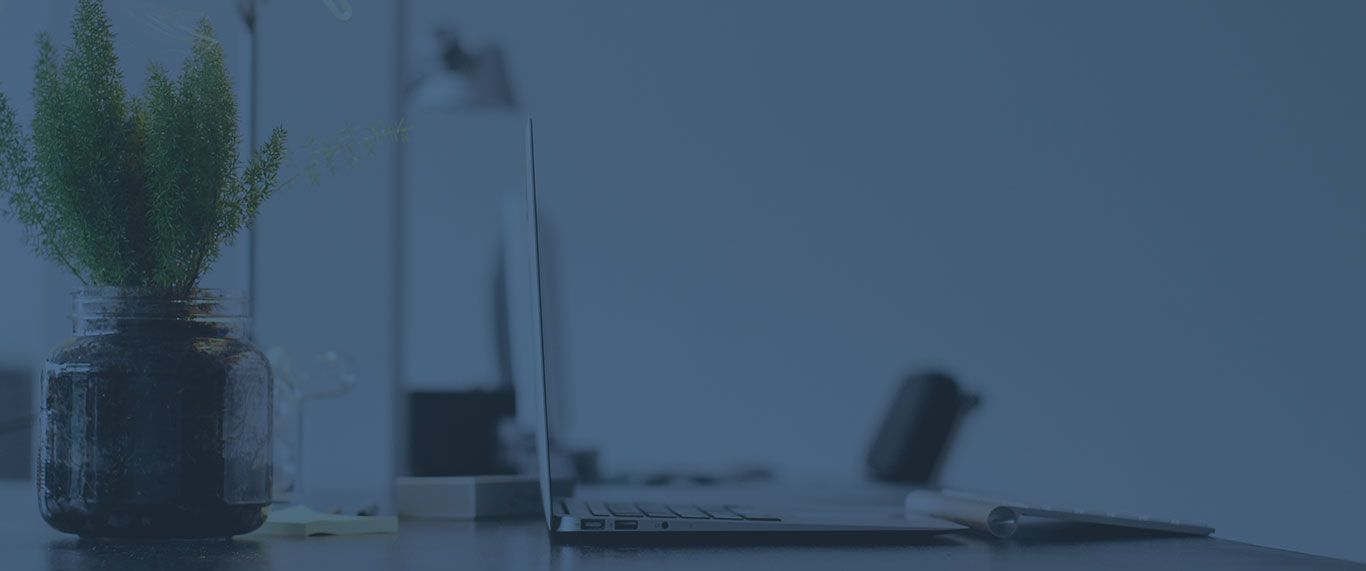
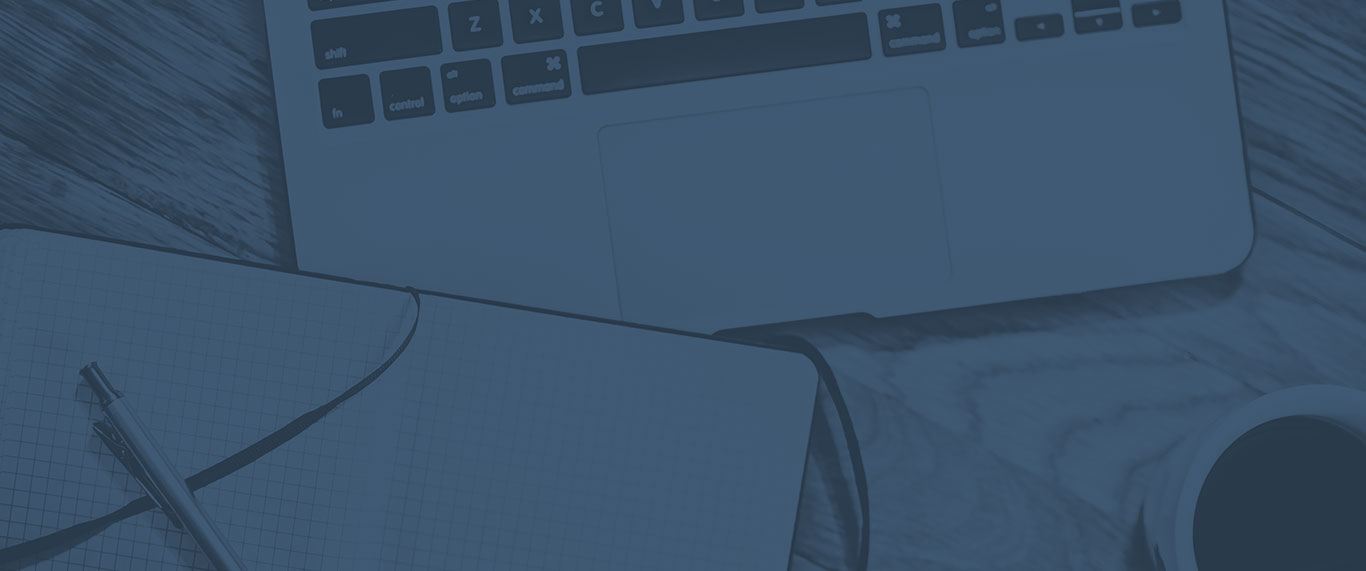
Updated index header and custom file input

diff --git a/public/js/app/templates.js b/public/js/app/templates.js
@@ -1,5 +1,5 @@
 angular.module("gifable.app.templates").run(["$templateCache", function($templateCache) {$templateCache.put("components/documentation/documentation.html","<gifable-header></gifable-header>\r\n<section class=\"outer-container\">\r\n    <h2>POST /api/v1/gifs</h2>\r\n    <p>Convert a GIF file into an HTML5 video.</p>\r\n    <h4>Sample Post Data</h4>\r\n    <pre>{{ postData }}</pre>\r\n    <h4>Sample Response</h4>\r\n    <pre>{{ postResponse }}</pre>\r\n\r\n    <h2>GET /api/v1/gifs/{shortcode}</h2>\r\n    <p>Retrieve a GIF\'s stored information based on URL shortcode.</p>\r\n    <h4>Sample Response</h4>\r\n    <pre>{{ getResponse }}</pre>\r\n</section>\r\n");
 $templateCache.put("components/index/index.html","<gifable-index-header></gifable-index-header>\r\n<section class=\"outer-container\">\r\n    <div class=\"input-wrapper\">\r\n        <div class=\"header-icon\">\r\n            <i class=\"fa fa-cloud-upload\"></i>\r\n        </div>\r\n        <div class=\"file-input\">\r\n            <custom-file-uploader uploader=\"uploader\"></custom-file-uploader>\r\n        </div>\r\n    </div>\r\n</section>\r\n");
-$templateCache.put("shared/gifable-file-input/gifable-file-input.html","<div class=\"directive gifable-file-input\">\r\n    <input type=\"file\" accept=\"image/gif\" nv-file-select uploader=\"uploader\">\r\n    <button>Upload GIF</button>\r\n</div>\r\n");
+$templateCache.put("shared/gifable-file-input/gifable-file-input.html","<div class=\"directive gifable-file-input\">\r\n    <input type=\"file\" accept=\"image/gif\" nv-file-select uploader=\"uploader\">\r\n    <button><i class=\"fa fa-cloud-upload\"></i>Upload GIF</button>\r\n</div>\r\n");
 $templateCache.put("shared/gifable-header/gifable-header.html","<header>\r\n    <div class=\"navigation\">\r\n        <div class=\"outer-container\">\r\n            <div class=\"logo\">\r\n                <a href=\"#/\"><img src=\"/img/index-logo.png\"></a>\r\n            </div>\r\n            <div class=\"links\">\r\n                <ul>\r\n                    <li><a href=\"#/about\">About</a></li>\r\n                    <li><a href=\"#/api\">API</a></li>\r\n                    <li><a href=\"#/donate\">Donate</a></li>\r\n                </ul>\r\n            </div>\r\n        </div>\r\n    </div>\r\n</header>\r\n");
-$templateCache.put("components/index/gifable-index-header/gifable-index-header.html","<div class=\"directive gifable-index-header\">\r\n    <div class=\"navigation\">\r\n        <div class=\"outer-container\">\r\n            <div class=\"logo\">\r\n                <a href=\"#/\"><img src=\"/img/index-logo.png\"></a>\r\n            </div>\r\n            <div class=\"links\">\r\n                <ul>\r\n                    <li><a href=\"#/about\">About</a></li>\r\n                    <li><a href=\"#/api\">API</a></li>\r\n                    <li><a href=\"#/donate\">Donate</a></li>\r\n                </ul>\r\n            </div>\r\n        </div>\r\n    </div>\r\n    <div class=\"call-to-action\">\r\n        <div class=\"outer-container\">\r\n            <h1>Upload Your GIF</h1>\r\n            <div class=\"input\">\r\n                <gifable-file-input></gifable-file-input>\r\n            </div>\r\n            <p>We squash your GIFs into super efficient HTML5 videos that can be viewed from any device - saving you time and bandwidth.</p>\r\n        </div>\r\n    </div>\r\n</div>\r\n");}]);
+$templateCache.put("components/index/gifable-index-header/gifable-index-header.html","<div class=\"directive gifable-index-header\">\r\n    <div class=\"navigation\">\r\n        <div class=\"outer-container\">\r\n            <div class=\"logo\">\r\n                <a href=\"#/\"><img src=\"/img/index-logo.png\"></a>\r\n            </div>\r\n            <div class=\"links\">\r\n                <ul>\r\n                    <li><a href=\"#/about\">About</a></li>\r\n                    <li><a href=\"#/api\">API</a></li>\r\n                    <li><a href=\"#/donate\">Donate</a></li>\r\n                </ul>\r\n            </div>\r\n        </div>\r\n    </div>\r\n    <div class=\"call-to-action\">\r\n        <div class=\"outer-container\">\r\n            <h1>Upgrade Your GIFs</h1>\r\n            <div class=\"input\">\r\n                <gifable-file-input></gifable-file-input>\r\n            </div>\r\n            <p>We squash your GIFs into super efficient HTML5 videos that can be viewed from any device - saving you time and bandwidth.</p>\r\n        </div>\r\n    </div>\r\n</div>\r\n");}]);

diff --git a/public/css/app.css b/public/css/app.css
@@ -105,7 +105,7 @@ html, body {
       clear: both; }
 
 .directive.gifable-index-header {
-  background: url(/img/index-header-background.jpg) center bottom;
+  background: #34495e url(/img/index-header-background.jpg) center;
   background-size: cover;
   color: #fff; }
   .directive.gifable-index-header .navigation {
@@ -143,11 +143,14 @@ html, body {
     text-align: center; }
     .directive.gifable-index-header .call-to-action h1 {
       margin: 0 0 32px;
+      font-size: 28px;
       text-transform: uppercase; }
     .directive.gifable-index-header .call-to-action .input {
-      margin-bottom: 128px; }
+      margin-bottom: 64px; }
     .directive.gifable-index-header .call-to-action p {
-      margin: 0; }
+      max-width: 512px;
+      margin: 0 auto;
+      line-height: 22.652px; }
 
 .directive.gifable-file-input {
   display: inline-block;
@@ -157,11 +160,12 @@ html, body {
     position: absolute;
     top: 0;
     bottom: 0;
-    color: transparent; }
+    color: transparent;
+    cursor: pointer; }
     .directive.gifable-file-input input[type=file]::-webkit-file-upload-button {
       visibility: hidden; }
   .directive.gifable-file-input button {
-    width: 280px;
+    width: 256px;
     font-size: 16px; }
     .directive.gifable-file-input button .fa {
       margin-right: 8px; }
@@ -193,7 +197,5 @@ html, body {
     background-color: #00a2e6;
     box-shadow: inset 0 1px 2px rgba(0, 0, 0, 0.2); }
 
-html, body {
-  background-color: #ecf0f1; }
-  html .outer-container, body .outer-container {
-    max-width: 1024px; }
+html .outer-container, body .outer-container {
+  max-width: 1024px; }

diff --git a/resources/assets/app/sass/components/index/_gifable-index-header.scss b/resources/assets/app/sass/components/index/_gifable-index-header.scss
@@ -1,5 +1,5 @@
 .directive.gifable-index-header {
-    background: url(/img/index-header-background.jpg) center bottom;
+    background: #34495e url(/img/index-header-background.jpg) center;
     background-size: cover;
 
     color: #fff;
@@ -60,13 +60,17 @@
         h1 {
             margin: 0 0 32px;
 
+            font-size: 28px;
             text-transform: uppercase;
         }
         .input {
-            margin-bottom: 128px;
+            margin-bottom: 64px;
         }
         p {
-            margin: 0;
+            max-width: 512px;
+            margin: 0 auto;
+
+            line-height: golden-ratio(14px, 1);
         }
     }
 }

diff --git a/resources/assets/app/sass/shared/_gifable-file-input.scss b/resources/assets/app/sass/shared/_gifable-file-input.scss
@@ -3,6 +3,8 @@
 
     position: relative;
 
+//    cursor: pointer;
+
     input[type=file] {
         width: 100%;
 
@@ -12,12 +14,14 @@
 
         color: transparent;
 
+        cursor: pointer;
+
         &::-webkit-file-upload-button {
             visibility: hidden;
         }
     }
     button {
-        width: 280px;
+        width: 256px;
 
         font-size: 16px;
 

diff --git a/resources/assets/app/js/components/index/gifable-index-header/gifable-index-header.html b/resources/assets/app/js/components/index/gifable-index-header/gifable-index-header.html
@@ -15,7 +15,7 @@
     </div>
     <div class="call-to-action">
         <div class="outer-container">
-            <h1>Upload Your GIF</h1>
+            <h1>Upgrade Your GIFs</h1>
             <div class="input">
                 <gifable-file-input></gifable-file-input>
             </div>

diff --git a/resources/assets/app/js/shared/gifable-file-input/gifable-file-input.html b/resources/assets/app/js/shared/gifable-file-input/gifable-file-input.html
@@ -1,4 +1,4 @@
 <div class="directive gifable-file-input">
     <input type="file" accept="image/gif" nv-file-select uploader="uploader">
-    <button>Upload GIF</button>
+    <button><i class="fa fa-cloud-upload"></i>Upload GIF</button>
 </div>

diff --git a/resources/assets/app/sass/app.scss b/resources/assets/app/sass/app.scss
@@ -8,8 +8,6 @@
 @import "shared/gifable-header";
 
 html, body {
-    background-color: #ecf0f1;
-
     .outer-container {
         max-width: 1024px;
     }
